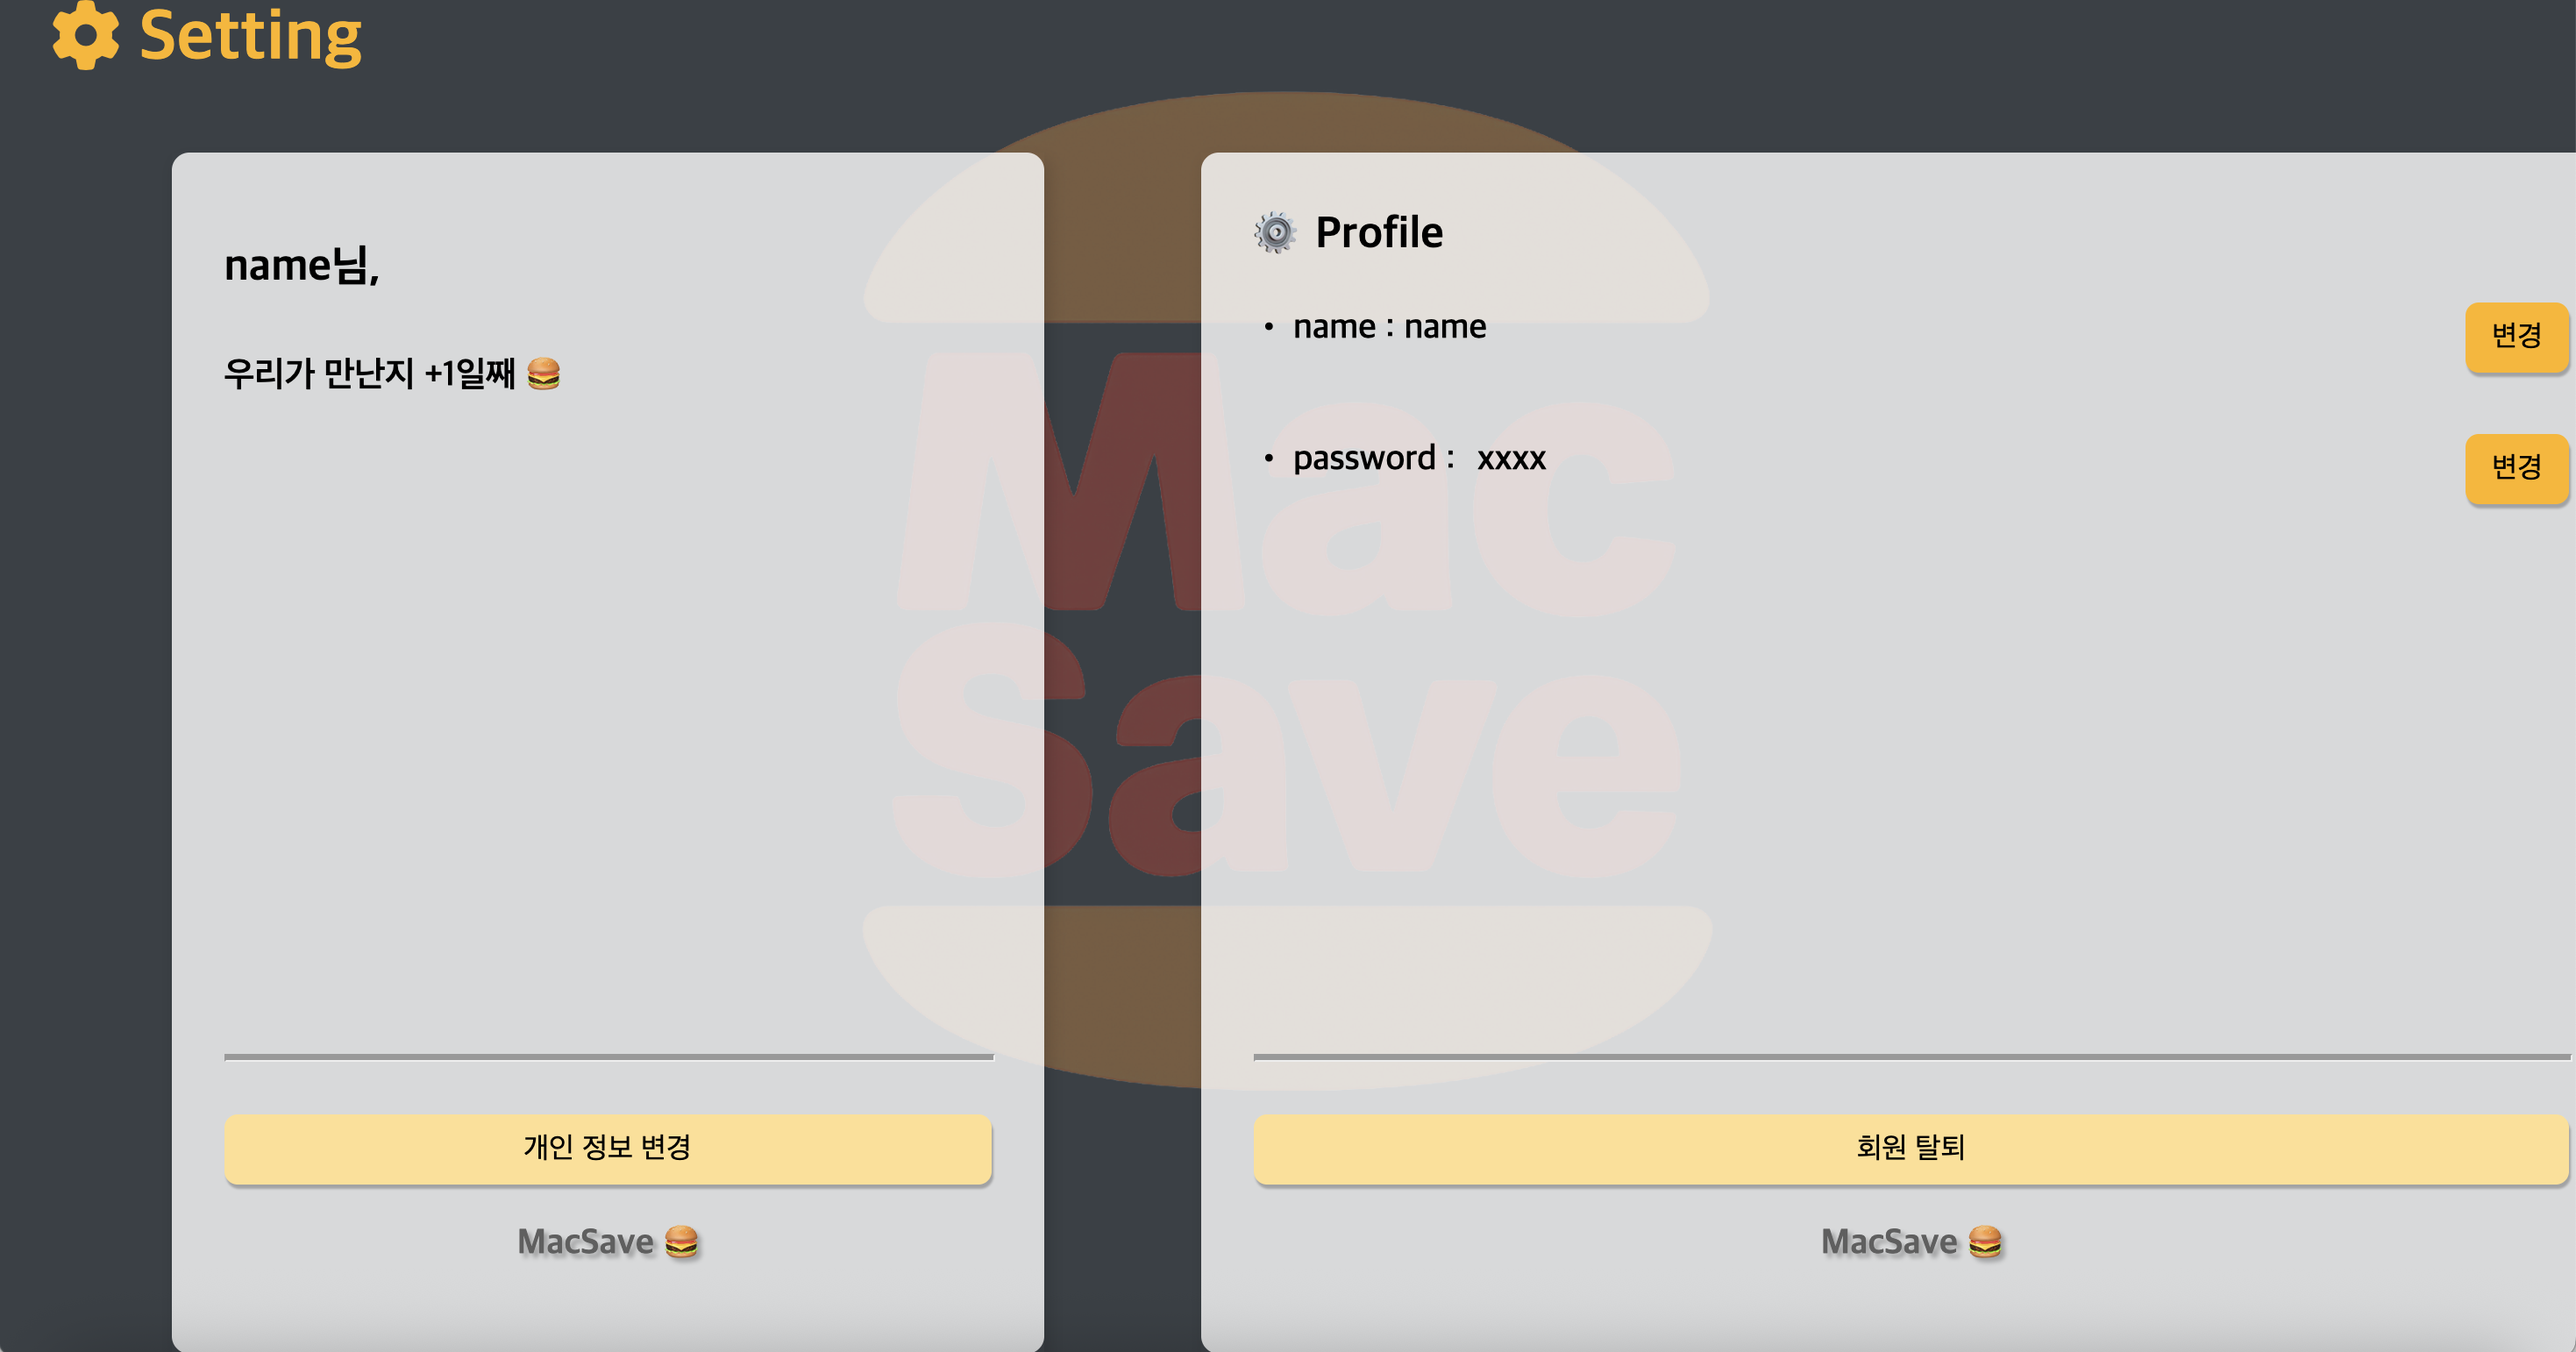
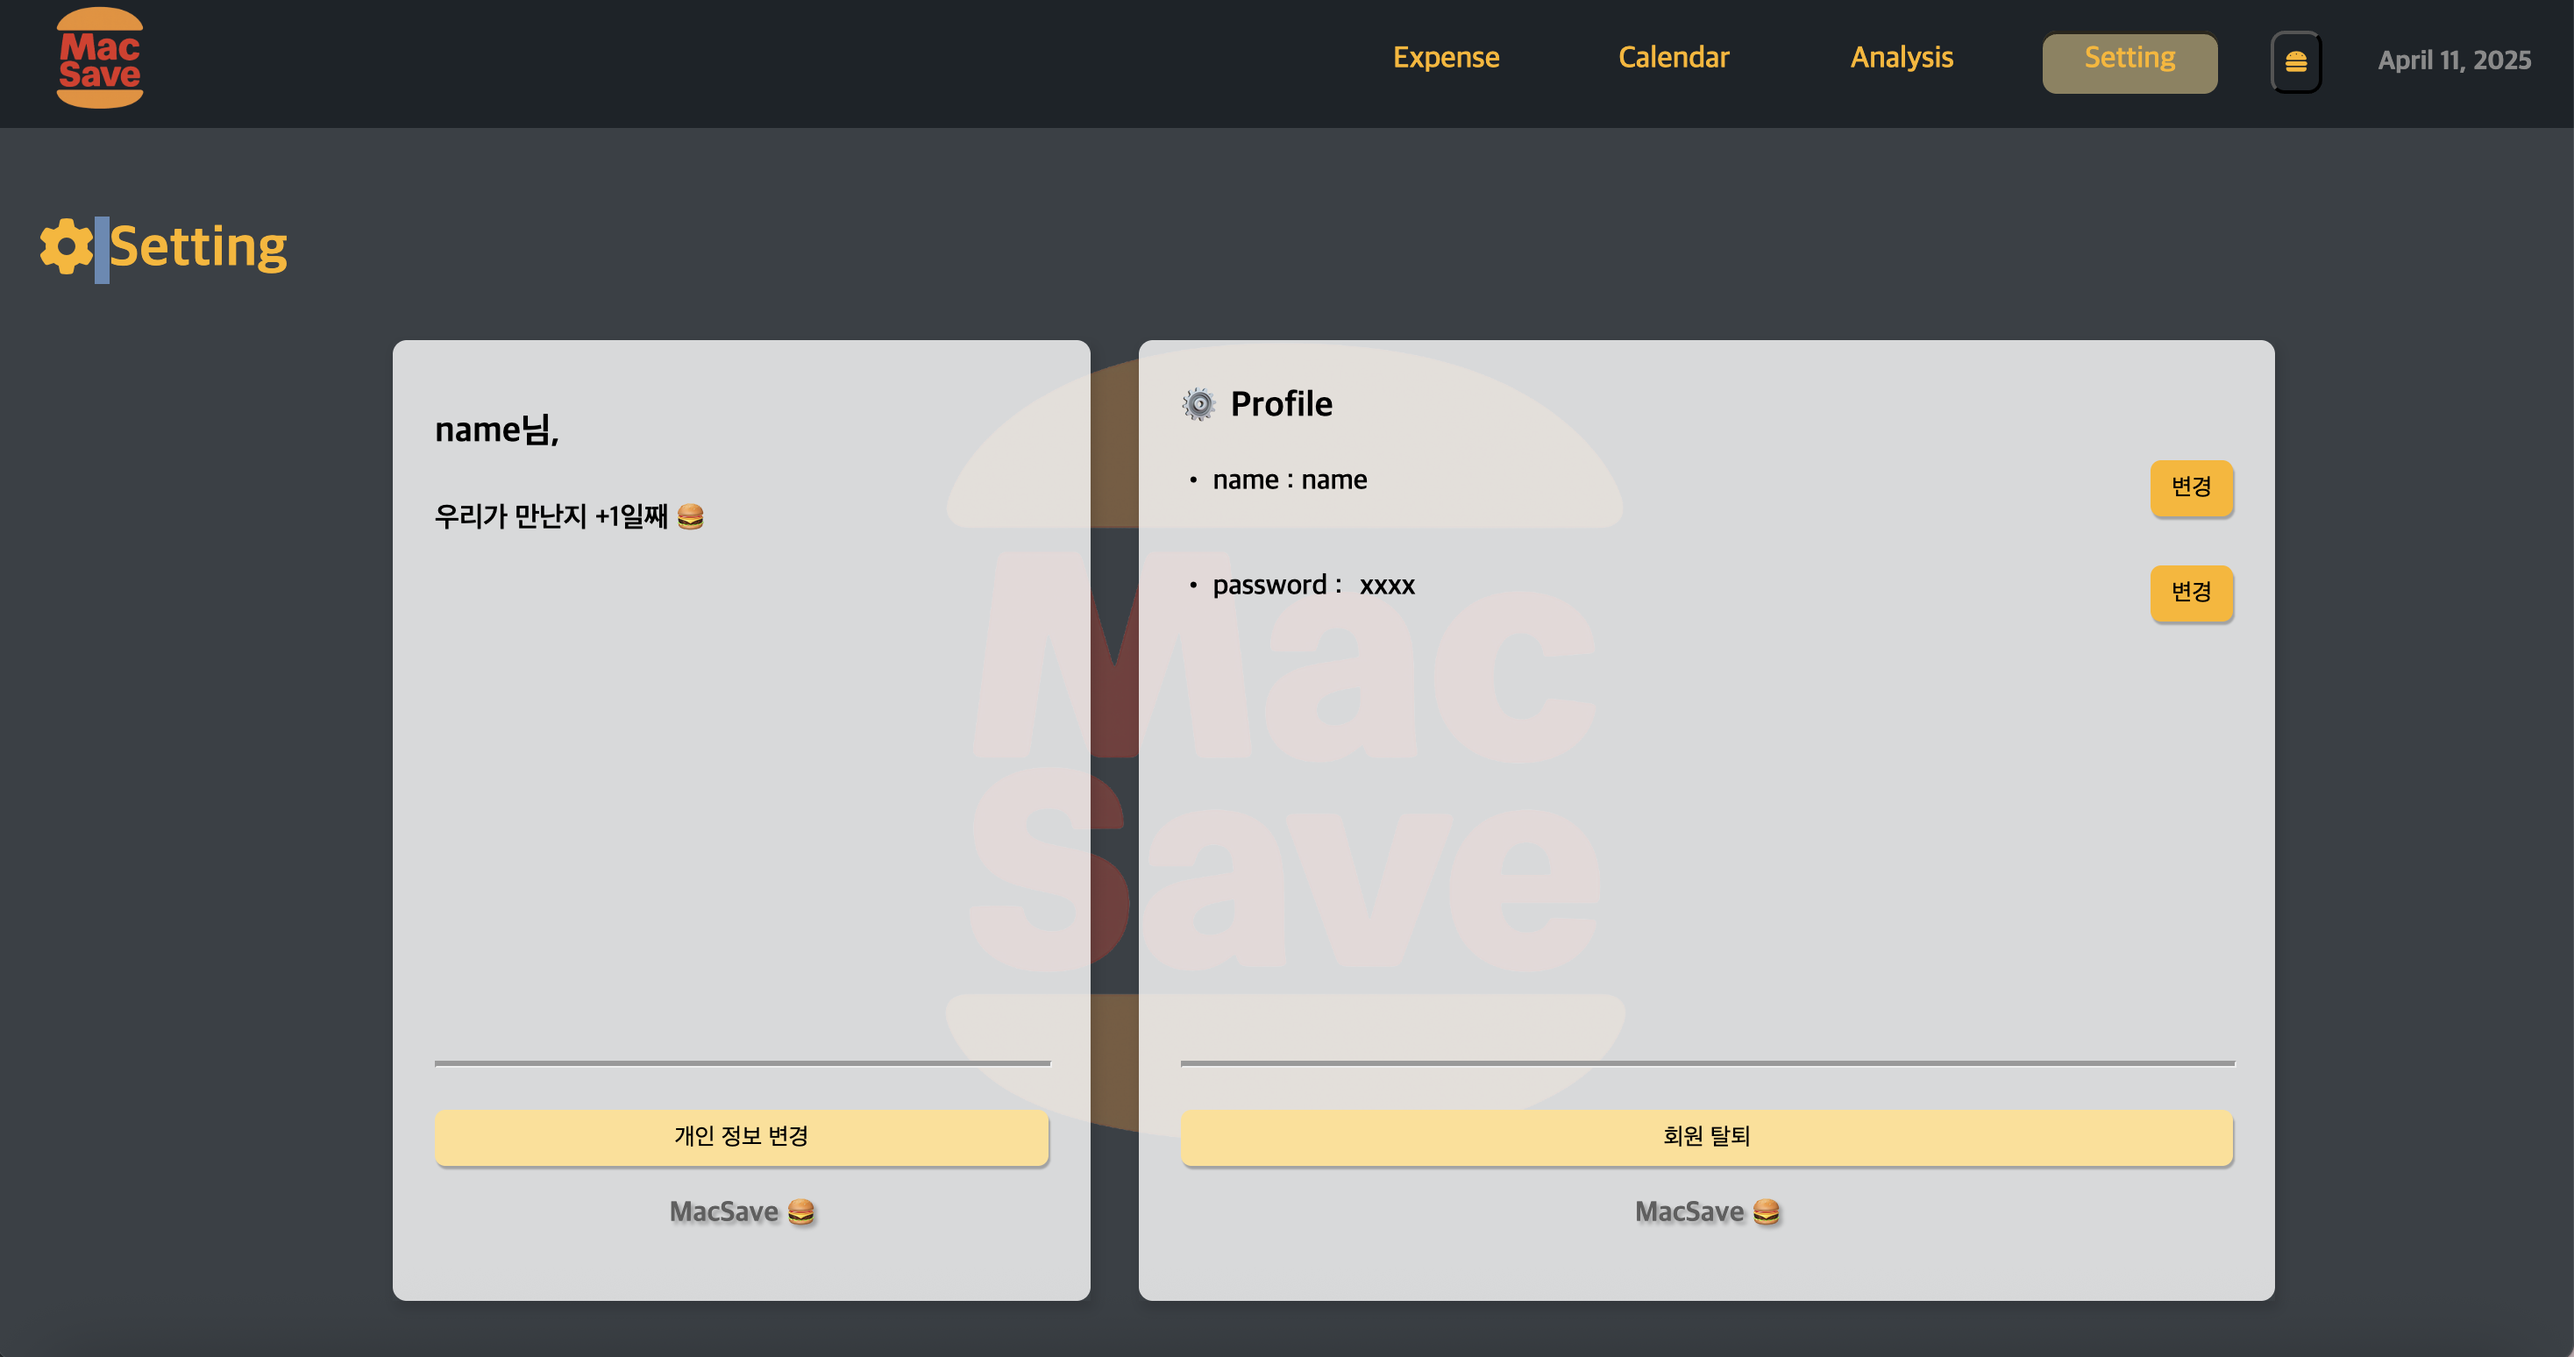
docs: readme파일 작성

diff --git a/README.md b/README.md
@@ -119,7 +119,11 @@ MacSave 가계부의 초기화면입니다.
 MacSave 가계부의 소비/지출 내역입니다.
 db.json에 저장된 내용을 불러와 지출/소비 내역을 출력합니다.
 ![MacSave 소비/지출 추가](./public/readme/add.png)
-![MacSave 소비/지출 영수증](./public/readme/receipt.png)
+<div align="center">
+  <img src="./public/readme/receipt.png" alt="MacSave 햄버거 영수증" width="200">
+  <p>내역 영수증</p>
+</div>
+
 + 주요기능
   +  필터기능을 활용하여 주/월/연별로 조회가 가능합니다.
   +  `+` 버튼을 클릭하여 실시간으로 소비/지출 내역 추가가 가능합니다.
@@ -140,7 +144,11 @@ MacSave 가계부의 달력형식 내역입니다.
 햄버거형태의 소비내역 요약 그래프입니다.
 카테고리별 소비금액을 바탕으로 카테고리별 패티의 크기가 변경됩니다.
 카테고리에 해당하는 패티를 클릭시 해당 카테고리 항목에 해당되는 상세 영수증이 출력됩니다.
-![MacSave 햄버거 통계 영수증](./public/readme/stats_receipt.png)
+<div align="center">
+  <img src="./public/readme/stats_receipt.png" alt="MacSave 햄버거 통계 영수증" width="200">
+  <p>카테고리 별 내역 영수증</p>
+</div>
+
 ### 5. Setting (설정)
 
 사용자 정보를 제공 및 변경 가능한 설정기능을 제공합니다.
